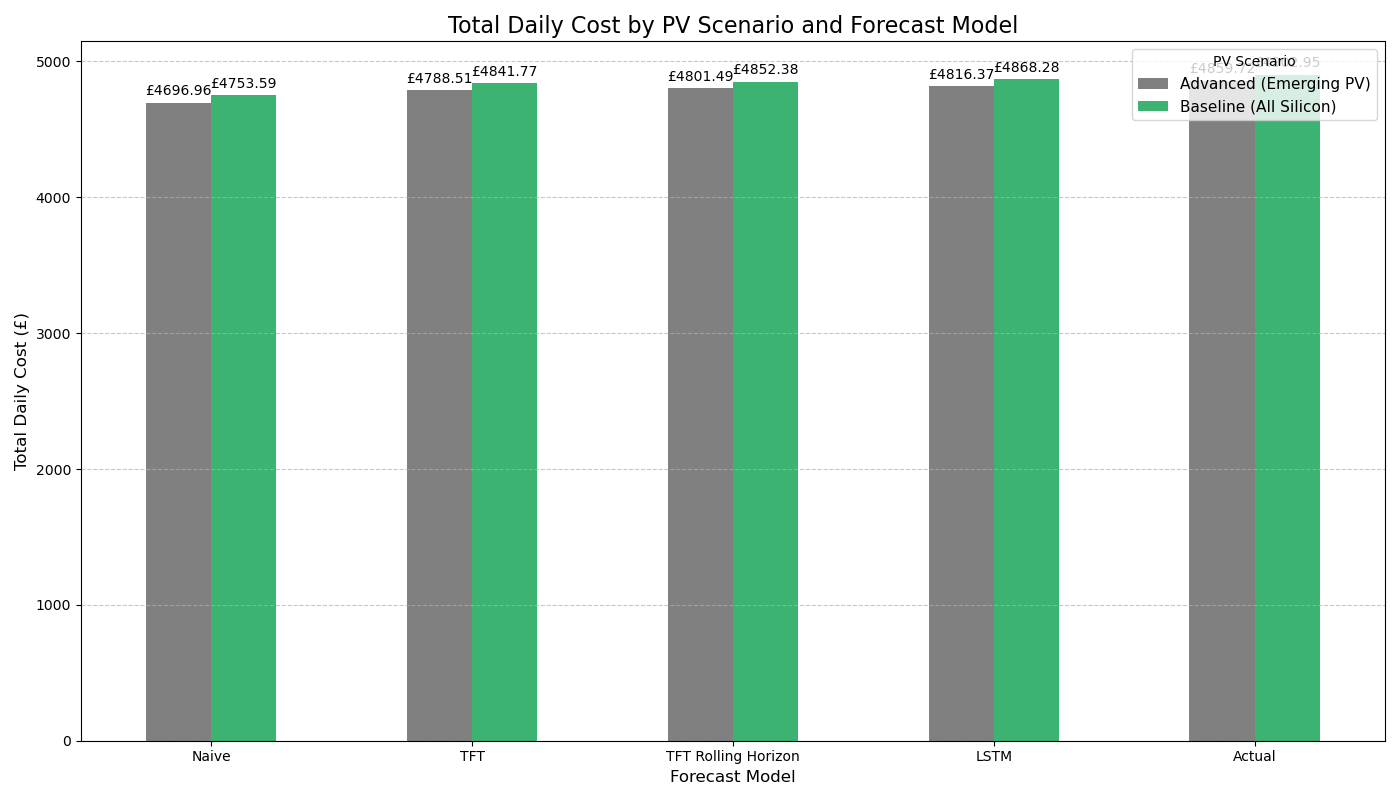
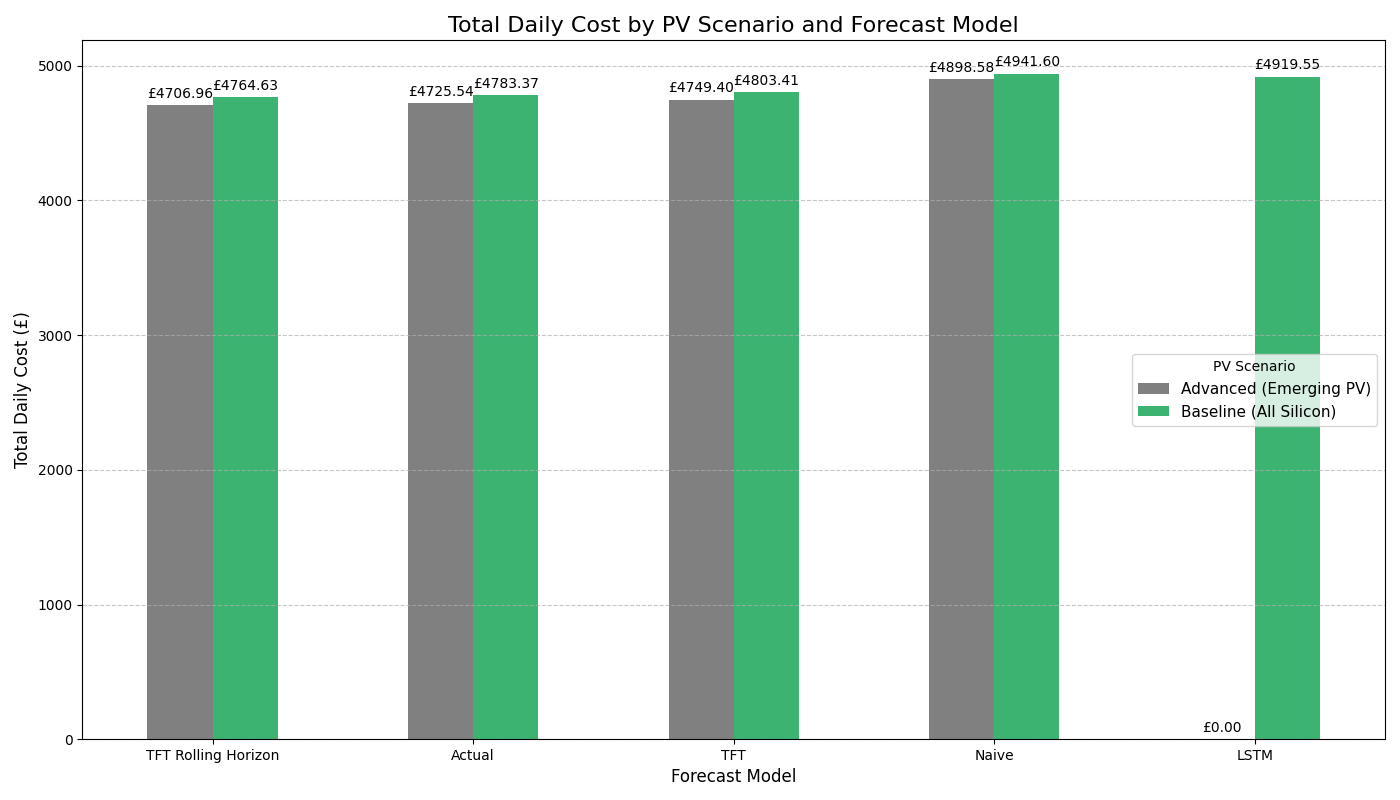
latest plots

diff --git a/new_simulation.py b/new_simulation.py
@@ -955,6 +955,14 @@ def plot_thesis_dispatch_bars(df: pd.DataFrame, title_suffix="", filename="dispa
     lines2, labels2 = ax2.get_legend_handles_labels()
     ax1.legend(lines + lines2, labels + labels2, loc='upper left', ncol=3, frameon=True, facecolor='white', framealpha=0.8)
     
+    for spine in ax2.spines.values():
+        spine.set_edgecolor('black')
+        spine.set_linewidth(1.5)
+
+    for spine in ax1.spines.values():
+        spine.set_edgecolor('black')
+        spine.set_linewidth(1.5)
+
     plt.xticks(np.arange(0, 24, 2))
     fig.tight_layout(rect=[0, 0, 1, 0.95])
     
@@ -1042,11 +1050,6 @@ def plot_dr_stacked_bar(schedule_df, dr_participants, net, total_load_forecast, 
     # --- 2. Setup the Plot ---
     fig, ax = plt.subplots(figsize=(14, 10)) # MODIFIED: Increased figure height slightly
     bar_width = 0.7
-
-    for spine in ax.spines.values():
-        spine.set_edgecolor('black')
-        spine.set_linewidth(1.5)
-
     colors = plt.cm.get_cmap('cividis', len(dr_participants))
 
     # --- 3. Plot Stacked Bars ---
@@ -1074,11 +1077,11 @@ def plot_dr_stacked_bar(schedule_df, dr_participants, net, total_load_forecast, 
     ax2.set_yticks([]) # Hide the ticks on the right axis
     
     # MODIFIED: Remove the y-axis spine (the line) on the right for a cleaner look
-    ax2.spines['right'].set_visible(False)
-    ax2.spines['left'].set_visible(False)
-    ax2.spines['top'].set_visible(False)
-    ax2.spines['bottom'].set_visible(False)
-
+    # ax2.spines['right'].set_visible(True)
+    # ax2.spines['left'].set_visible(True)
+    # ax2.spines['top'].set_visible(True)
+    # ax2.spines['bottom'].set_visible(True)
+    #
 
     # MODIFIED: Set the annotation text to the new right-hand axis
     ax2.set_ylabel('Actual Load Demand', fontsize=26)
@@ -1093,6 +1096,11 @@ def plot_dr_stacked_bar(schedule_df, dr_participants, net, total_load_forecast, 
               bbox_to_anchor=(1.04, 1), # Position legend outside the plot
               loc='upper left',
               borderaxespad=0.)
+
+    for spine in ax.spines.values():
+        spine.set_edgecolor('black')
+        spine.set_linewidth(1.5)
+
 
     ax.set_xticks(np.arange(0, 25, 2))
     ax.set_xlim(-0.5, 23.5)
@@ -1156,8 +1164,8 @@ if __name__ == "__main__":
     grid_price_data = np.array([50, 45, 40, 40, 45, 60, 80, 120, 110, 90, 70, 60, 55, 50, 55, 75, 130, 150, 120, 90, 80, 70, 60, 50])
 
     try:
-        t2m_df = pd.read_csv("june_t2m.csv", parse_dates=['timestamp']).head(24)
-        ghi_df = pd.read_csv("june_GHI.csv", parse_dates=['timestamp']).head(24)
+        t2m_df = pd.read_csv("single_day_forecast_july_t2m.csv", parse_dates=['timestamp']).head(24)
+        ghi_df = pd.read_csv("single_day_forecast_july_ghi.csv", parse_dates=['timestamp']).head(24)
     except FileNotFoundError:
         print("Error: Ensure 'december_t2m.csv' and 'december_GHI.csv' are in the same directory.")
         exit()
